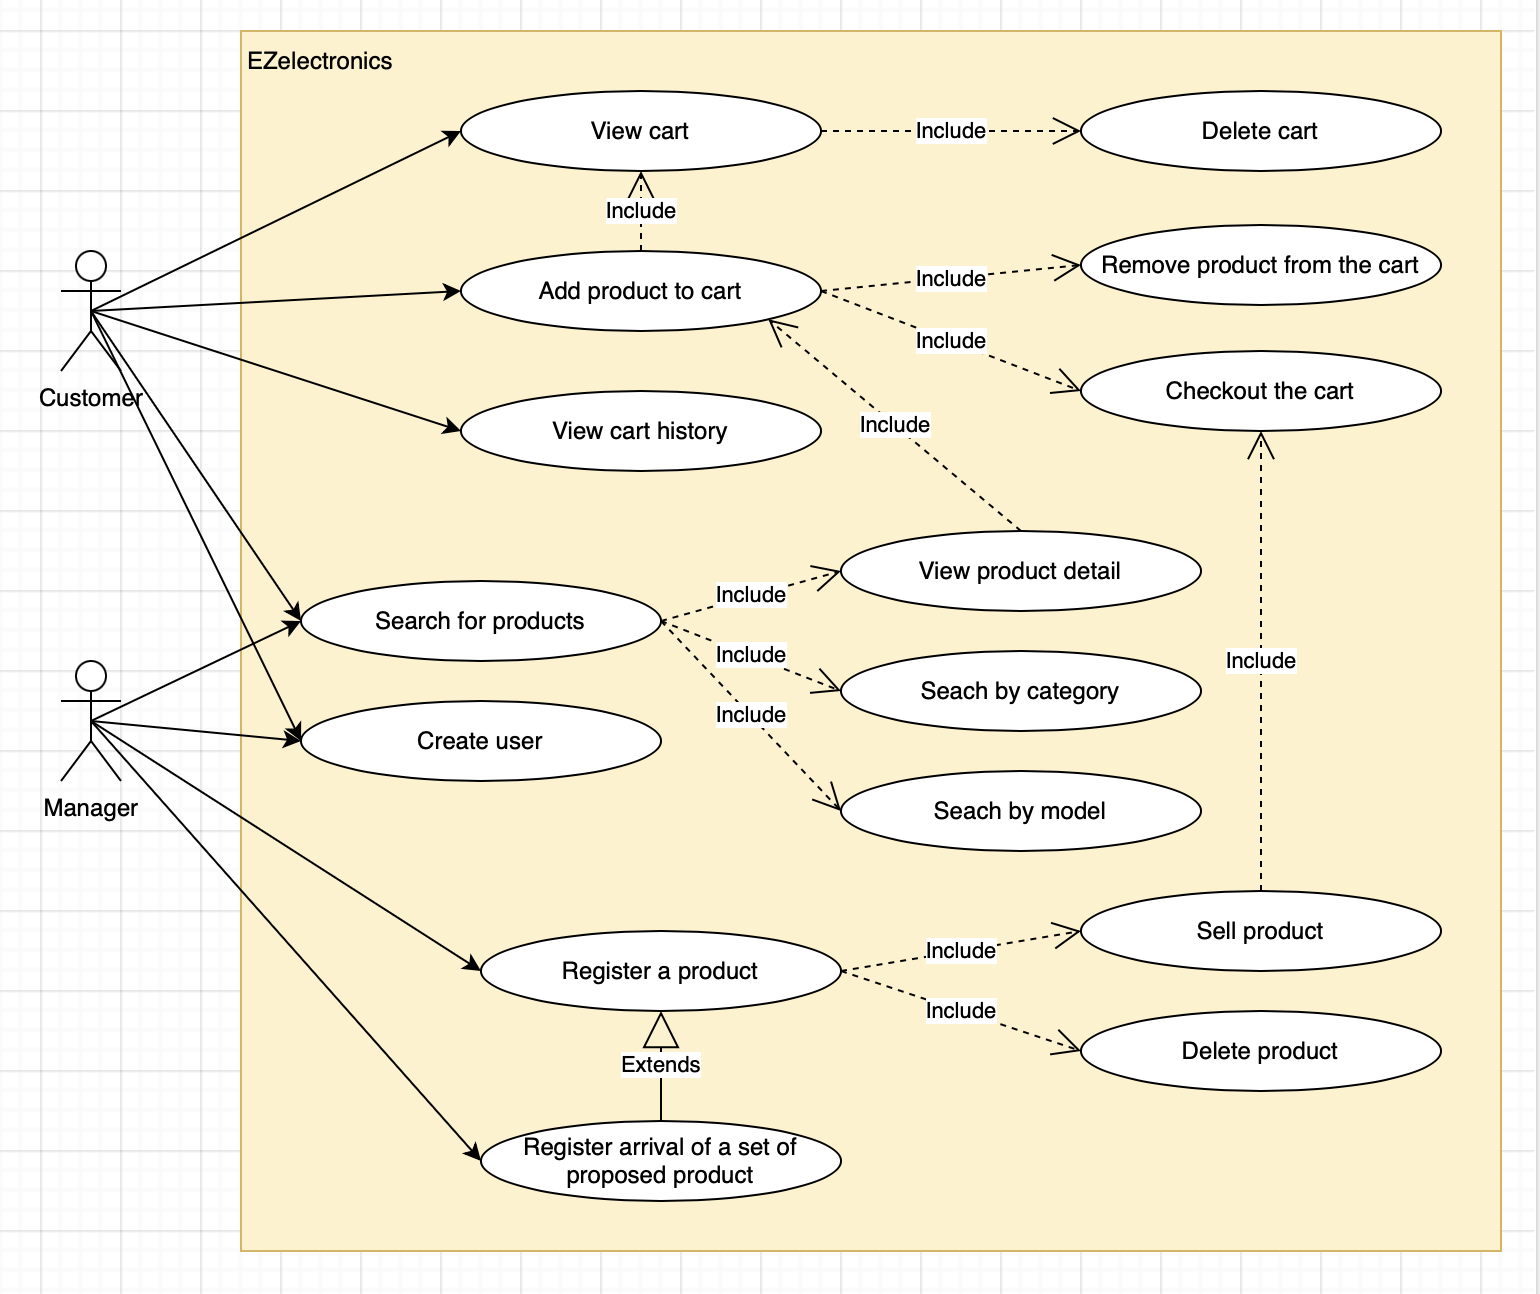
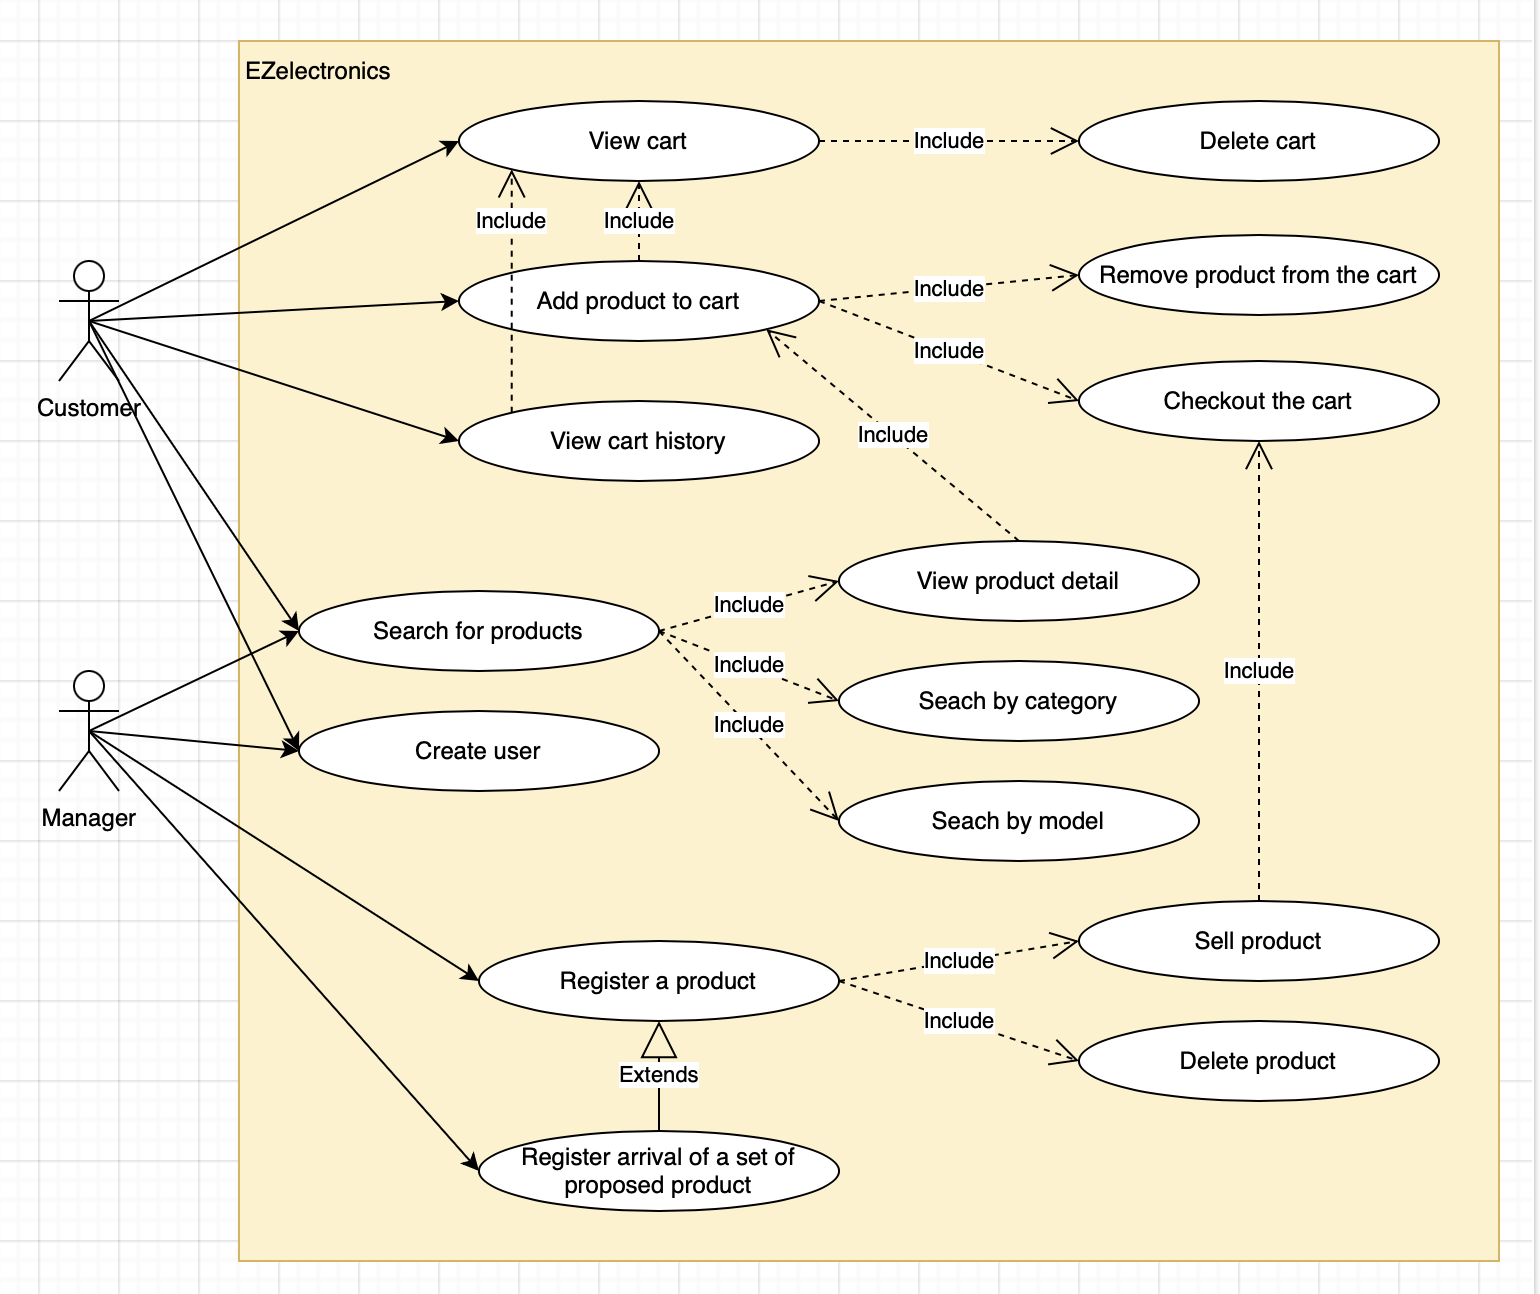
add use case and scenari

diff --git a/RequirementsDocumentV1.md b/RequirementsDocumentV1.md
@@ -124,21 +124,9 @@ EZElectronics (read EaSy Electronics) is a software application designed to help
 
 # Use case diagram and use cases
 
-## Use case diagram - Laura
+## Use case diagram
 
-\<define here UML Use case diagram UCD summarizing all use cases, and their relationships>
-
-\<next describe here each use case in the UCD>
-
-### Use case 1, UC1
-
-| Actors Involved  |                                                                      |
-| :--------------: | :------------------------------------------------------------------: |
-|   Precondition   | \<Boolean expression, must evaluate to true before the UC can start> |
-|  Post condition  |  \<Boolean expression, must evaluate to true after UC is finished>   |
-| Nominal Scenario |         \<Textual description of actions executed by the UC>         |
-|     Variants     |                      \<other normal executions>                      |
-|    Exceptions    |                        \<exceptions, errors >                        |
+![use_case_diagram.png](./requirement_documents/v1/use_case_diagram.png)
 
 ### UC1 - Use Case 1: Add product to cart
 
@@ -152,21 +140,13 @@ EZElectronics (read EaSy Electronics) is a software application designed to help
 
 ##### Scenario 1.1
 
-\<describe here scenarios instances of UC1>
-
-\<a scenario is a sequence of steps that corresponds to a particular execution of one use case>
-
-\<a scenario is a more formal description of a story>
-
-\<only relevant scenarios should be described>
-
 |  Scenario 1.1  |                The user add 1 product to his cart                |
 | :------------: | :--------------------------------------------------------------: |
 |  Precondition  |   The user must be authenticated and a have "customer" (role)    |
 | Post condition |          The cart should contain the requested product           |
 |     Step#      |                         **Description**                          |
 |       1        |                The customer has a list of product                |
-|       2        |                The customer clicks on one product                |
+|       2        |      The customer clicks on one product -> product details       |
 |       3        |               The customer clicks on "Add to cart"               |
 |       4        |         The system updates the cart and add the product          |
 |       5        | The customer can click and "Continue ordering" (or "Go to cart") |
@@ -185,7 +165,7 @@ EZElectronics (read EaSy Electronics) is a software application designed to help
 |       5        |         The system updates the cart and add the products          |
 |       6        | The customer can clicks and "Continue ordering" (or "Go to cart") |
 
-### UC2 - Use case 2 : Add New Product
+### UC2 - Use case 2 : Register a new product
 
 | Actors Involved  |                                        Store Manager                                        |
 | :--------------: | :-----------------------------------------------------------------------------------------: |
@@ -193,25 +173,27 @@ EZElectronics (read EaSy Electronics) is a software application designed to help
 |  Post condition  |                           The new product is added to the system                            |
 | Nominal Scenario |                The manager adds a new product with all required information                 |
 |     Variants     |                   The manager adds a new product with additional details                    |
-|    Exceptions    | Product with the same name already exists <br> Required fields are not filled out correctly |
+|    Exceptions    | Product with the same code already exists <br> Required fields are not filled out correctly |
 
-##### Scenario 2.1: Add a new product
+##### Scenario 2.1: Register a new product
 
-|  Scenario 2.1  |                    Manager add a new product to the system                    |
+|  Scenario 2.1  |                   Manager adds a new product to the system                    |
 | :------------: | :---------------------------------------------------------------------------: |
 |  Precondition  |              Manager is authenticated and has the "manager" role              |
 | Post condition |                    The new product is added to the system                     |
 |     Step#      |                                **Description**                                |
-|       1        |            The manager navigates to the "Add New Product" section             |
-|       2        | The manager enters product information (selling price, model, category, etc.) |
-|       3        |                       The manager saves the new product                       |
-|       4        |                 The system adds the product to the inventory                  |
+|       1        |                  The manager navigates to "Product" section                   |
+|       2        |               The manager selects on the "New arrival" dropdown               |
+|       3        |                   The manager selects "Register a product"                    |
+|       4        | The manager enters product information (selling price, model, category, etc.) |
+|       5        |                       The manager saves the new product                       |
+|       6        |                 The system adds the product to the inventory                  |
 
 ### UC3 - Use Case 3: View Cart History
 
 | Actors Involved  |                                  Customer                                  |
 | :--------------: | :------------------------------------------------------------------------: |
-|   Precondition   |           The customer authenticated and has the "customer" role           |
+|   Precondition   |         The customer is authenticated and has the "customer" role          |
 |  Post condition  |                  The customer can view their cart history                  |
 | Nominal Scenario | The customer accesses and views their cart history (only checked out cart) |
 |     Variants     |                                                                            |
@@ -229,18 +211,184 @@ EZElectronics (read EaSy Electronics) is a software application designed to help
 |       3        |     The customer sees a list of their past checket out cart     |
 |       4        |     The customer clicks on a specific cart to view details      |
 
+### UC4 - Use Case 4: Register arrival of a set of proposed product
+
+NB : An arrival consists of many entities of the same product.
+
+| Actors Involved  |                                           Manager                                           |
+| :--------------: | :-----------------------------------------------------------------------------------------: |
+|   Precondition   |                    The user is authenticated and has the "manager" role                     |
+|  Post condition  |                         All the products are added to the inventory                         |
+| Nominal Scenario |              The manager adds **n** items of the same product to the inventory              |
+|     Variants     |                The manager adds 1 item of the same product to the inventory                 |
+|    Exceptions    | Product with the code name already exists <br> Required fields are not filled out correctly |
+
+##### Scenario 4.1: Register arrival of a set (n items) of proposed product
+
+|  Scenario 4.1  |                          Manager views cart history                           |
+| :------------: | :---------------------------------------------------------------------------: |
+|  Precondition  |             The user is authenticated and has the "manager" role              |
+| Post condition |                  All the products are added to the inventory                  |
+|     Step#      |                                **Description**                                |
+|       1        |                  The manager navigates to "Product" section                   |
+|       2        |               The manager selects on the "New arrival" dropdown               |
+|       3        |               The manager selects "Register a set of arrivals"                |
+|       4        | The manager enters product information (selling price, model, category, etc.) |
+|       5        |       The manager enters selects the quantity of product in the arrival       |
+|       6        |                         The manager save the arrival                          |
+|       7        |      The system adds all the product to the inventory with different ID       |
+
+### UC5 - Use Case 5: Delete Product from Inventory
+
+| Actors Involved  |                       Manager                        |
+| :--------------: | :--------------------------------------------------: |
+|   Precondition   | The user is authenticated and has the "manager" role |
+|  Post condition  |      The product is removed from the inventory       |
+| Nominal Scenario |   The manager deletes a product from the inventory   |
+|     Variants     |                                                      |
+|    Exceptions    |       Product does not exist in the inventory        |
+
+##### Scenario 5.1: Delete Product from Inventory
+
+|  Scenario 5.1  |        Manager deletes a product from inventory        |
+| :------------: | :----------------------------------------------------: |
+|  Precondition  |  The user is authenticated and has the "manager" role  |
+| Post condition |       The product is removed from the inventory        |
+|     Step#      |                    **Description**                     |
+|       1        |       The manager navigates to "Product" section       |
+|       2        |   The manager searches for the product to be deleted   |
+|       3        | The manager selects the product to delete and confirms |
+|       4        |   The system removes the product from the inventory    |
+
+### UC6 - Use Case 6: Sell Product by Accepting a Checkout Cart from a Customer
+
+| Actors Involved  |                      Manager, Customer                       |
+| :--------------: | :----------------------------------------------------------: |
+|   Precondition   |   The manager is authenticated and has the "manager" role    |
+|  Post condition  |       The product is marked as sold, inventory updated       |
+| Nominal Scenario | The manager accepts and processes a customer's checkout cart |
+|     Variants     |                                                              |
+|    Exceptions    |  Cart is empty <br> Product in cart is no longer available   |
+
+##### Scenario 6.1: Sell Product by Accepting a Checkout Cart
+
+|  Scenario 6.1  |        Manager processes a customer's checkout cart         |
+| :------------: | :---------------------------------------------------------: |
+|  Precondition  |   The manager is authenticated and has the "manager" role   |
+| Post condition |      The product is marked as sold, inventory updated       |
+|     Step#      |                       **Description**                       |
+|       1        |         The manager navigates to "Checkout" section         |
+|       2        | The manager selects the customer's checkout cart to process |
+|       3        | The manager reviews the cart contents and confirms the sale |
+|       4        | The system marks the products as sold and updates inventory |
+
+### UC7 - Use Case 7: Search for Product
+
+| Actors Involved  |                  Customer, Manager                   |
+| :--------------: | :--------------------------------------------------: |
+|   Precondition   |   The user is authenticated as customer or manager   |
+|  Post condition  |   The search results for the product are displayed   |
+| Nominal Scenario | The user searches for a product by model or category |
+|     Variants     |                                                      |
+|    Exceptions    |    Product not found <br> Invalid search criteria    |
+
+##### Scenario 7.1: Search for Product by category
+
+|  Scenario 7.1  |             User searches for a product by category              |
+| :------------: | :--------------------------------------------------------------: |
+|  Precondition  |         The user is authenticated as customer or manager         |
+| Post condition |         The search results for the product are displayed         |
+|     Step#      |                         **Description**                          |
+|       1        |            The user navigates to the "Search" section            |
+|       2        | The user selects a category from a dropdown such as "Smartphone" |
+|       3        |        The system displays all the smartphones available         |
+
+##### Scenario 7.2: Search for Product by model
+
+|  Scenario 7.2  |                  User searches for a product by model                  |
+| :------------: | :--------------------------------------------------------------------: |
+|  Precondition  |            The user is authenticated as customer or manager            |
+| Post condition |            The search results for the product are displayed            |
+|     Step#      |                            **Description**                             |
+|       1        |               The user navigates to the "Search" section               |
+|       2        |                        The user enters a model                         |
+|       3        | The system displays all the model available corresponding to the input |
+
+### UC8 - Use Case 8: Checkout Cart as a Customer
+
+| Actors Involved  |                         Customer                          |
+| :--------------: | :-------------------------------------------------------: |
+|   Precondition   | The customer is authenticated and has the "customer" role |
+|  Post condition  |             The cart is marked as checked out             |
+| Nominal Scenario |      The customer checks out the items in their cart      |
+|     Variants     |                                                           |
+|    Exceptions    | Cart is empty <br> Product in cart is no longer available |
+
+##### Scenario 8.1: Checkout Cart
+
+|  Scenario 8.1  |                      Customer checks out the items in their cart                      |
+| :------------: | :-----------------------------------------------------------------------------------: |
+|  Precondition  |               The customer is authenticated and has the "customer" role               |
+| Post condition |                           The cart is marked as checked out                           |
+|     Step#      |                                    **Description**                                    |
+|       1        |                    The customer navigates to their "Cart" section                     |
+|       2        |          The customer reviews the items in the cart and click on "checkout"           |
+|       3        |                       The customer confirms the checkout action                       |
+|       4        | The system marks the cart as checked out and displays "waiting for manager approvals" |
+
+### UC9 - Use Case 9: Remove Product from Cart as a Customer
+
+| Actors Involved  |                         Customer                          |
+| :--------------: | :-------------------------------------------------------: |
+|   Precondition   | The customer is authenticated and has the "customer" role |
+|  Post condition  |           The product is removed from the cart            |
+| Nominal Scenario |      The customer removes a product from their cart       |
+|     Variants     |                                                           |
+|    Exceptions    |                Product is not in the cart                 |
+
+##### Scenario 9.1: Remove Product from Cart
+
+|  Scenario 9.1  |                      Customer removes a product from their cart                      |
+| :------------: | :----------------------------------------------------------------------------------: |
+|  Precondition  |              The customer is authenticated and has the "customer" role               |
+| Post condition |                         The product is removed from the cart                         |
+|     Step#      |                                   **Description**                                    |
+|       1        |                    The customer navigates to their "Cart" section                    |
+|       2        | The customer selects the product to remove from the cart and click on the "bin" icon |
+|       3        |                   The customer confirms the removal of the product                   |
+|       4        |                     The system removes the product from the cart                     |
+
+### UC10 - Use Case 10: Delete Cart as a Customer
+
+| Actors Involved  |                         Customer                          |
+| :--------------: | :-------------------------------------------------------: |
+|   Precondition   | The customer is authenticated and has the "customer" role |
+|  Post condition  |            The cart is deleted from the system            |
+| Nominal Scenario |              The customer deletes their cart              |
+|     Variants     |                                                           |
+|    Exceptions    |                   Cart is already empty                   |
+
+##### Scenario 10.1: Delete Cart
+
+| Scenario 10.1  |                Customer deletes their cart                |
+| :------------: | :-------------------------------------------------------: |
+|  Precondition  | The customer is authenticated and has the "customer" role |
+| Post condition |            The cart is deleted from the system            |
+|     Step#      |                      **Description**                      |
+|       1        |      The customer navigates to their "Cart" section       |
+|       2        |    The customer selects the option to delete the cart     |
+|       3        |      The customer confirms the deletion of the cart       |
+|       4        |        The system removes the cart from the system        |
+
 ---
 
-# Glossary - Sarv
+# Glossary
 
-![GLOSSARYv1.png](Images\GLOSSARYv1.png)
+![GLOSSARY.png](./requirement_documents/v1/GLOSSARY.png)
 
+# System Design
 
-# System Design - Gino
-
-\<describe here system design>
-
-\<must be consistent with Context diagram>
+Not required
 
 # Deployment Diagram - Everybody
 
